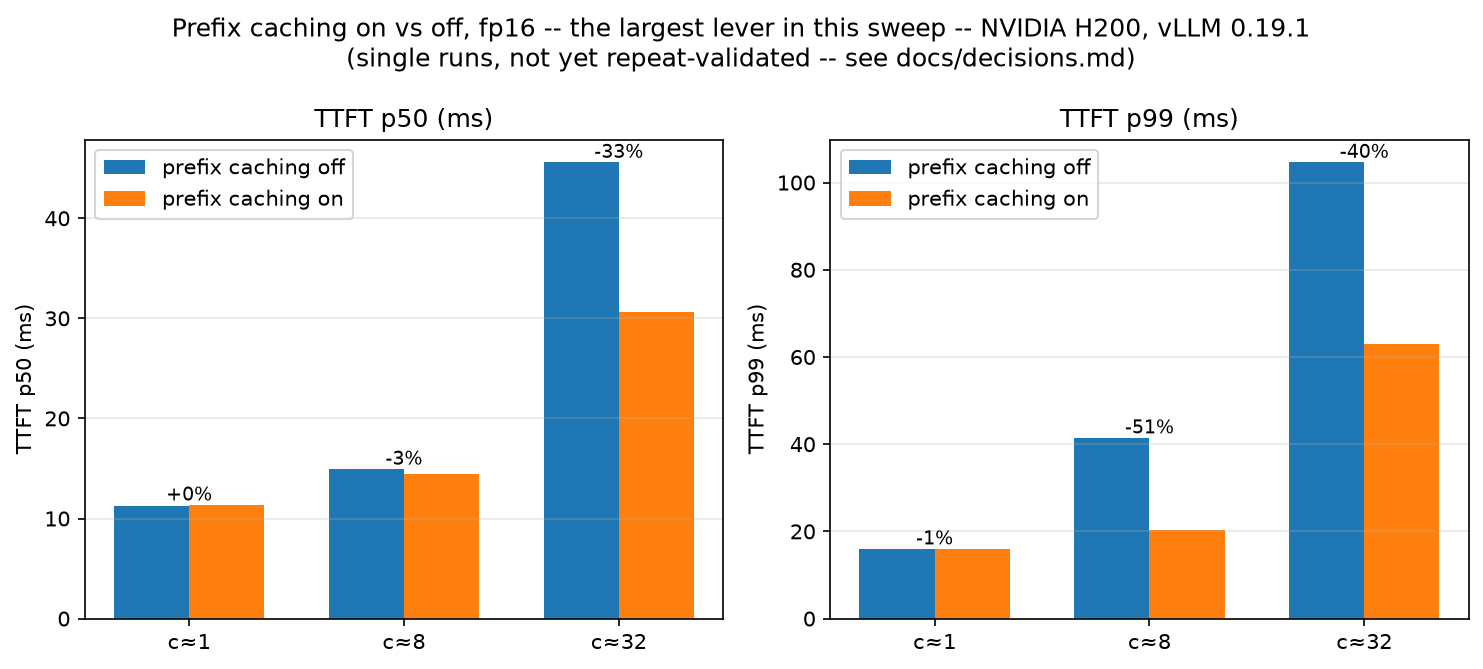
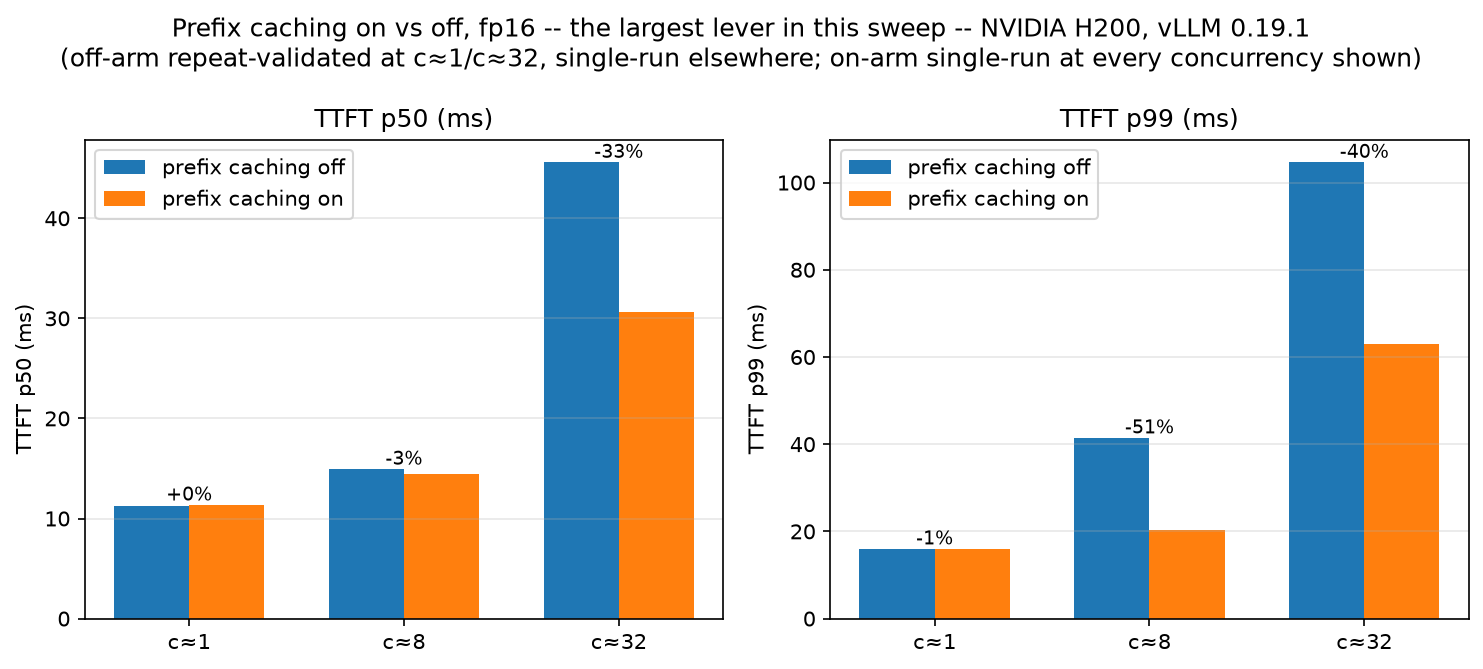
fix: state prefix-caching plot subtitles precisely, regenerate
Both prefix_caching_effect.png and effect_size_comparison.png
subtitles overstated "single-run, not yet repeat-validated" -- the
README's own repeat-validation paragraph says the prefix-caching-off
arm is repeat-validated at c1 and c32 (5 seeds); only the on arm (and
the off arm's c8 cell) is single-run. Read validation status off
cells[...]["runs"] instead of a hardcoded string, so this can't drift
out of sync with which cells actually got repeat runs again. Applies
to both the H100 and H200 versions of both plots -- same script, same
bug in both.

Changed region(s): [[0.031, 0.0598, 0.9616, 0.1196]]

diff --git a/scripts/analyze.py b/scripts/analyze.py
@@ -456,6 +456,31 @@ def plot_ttft_vs_arrival_rate(cells, out_path, env_label):
     plt.close(fig)
 
 
+def _validated_concs(cells, arm, prefix_caching, mode="open", barge_in=0.0):
+    """Concurrencies where this (arm, prefix_caching) cell is
+    repeat-validated (cell["runs"] > 1, from repeat_cell() -- 5 seeds),
+    read directly off the cells dict rather than hardcoded, so a plot
+    subtitle naming a validation status can't silently drift out of sync
+    with which concurrencies actually got repeat runs."""
+    return [c for c in CONC_ORDER
+            if (cells.get((arm, prefix_caching, mode, c, barge_in)) or {}).get("runs", 0) > 1]
+
+
+def _prefix_validation_note(cells):
+    off_repeat = _validated_concs(cells, "fp16", False)
+    on_repeat = _validated_concs(cells, "fp16", True)
+
+    def fmt(arm_label, repeat_concs):
+        if not repeat_concs:
+            return f"{arm_label} single-run at every concurrency shown"
+        if len(repeat_concs) == len(CONC_ORDER):
+            return f"{arm_label} repeat-validated at every concurrency shown"
+        concs = "/".join(f"c≈{c}" for c in repeat_concs)
+        return f"{arm_label} repeat-validated at {concs}, single-run elsewhere"
+
+    return f"{fmt('off-arm', off_repeat)}; {fmt('on-arm', on_repeat)}"
+
+
 def plot_prefix_caching_effect(cells, out_path, env_label):
     fig, axes = plt.subplots(1, 2, figsize=(10, 4.5))
     for ax, (label, key) in zip(axes, [("TTFT p50 (ms)", "ttft_p50_ms"), ("TTFT p99 (ms)", "ttft_p99_ms")]):
@@ -480,7 +505,7 @@ def plot_prefix_caching_effect(cells, out_path, env_label):
         ax.legend()
         ax.grid(alpha=0.3, axis="y")
     fig.suptitle(f"Prefix caching on vs off, fp16 -- the largest lever in this sweep -- {env_label}\n"
-                  "(single runs, not yet repeat-validated -- see docs/decisions.md)")
+                  f"({_prefix_validation_note(cells)})")
     fig.tight_layout()
     fig.savefig(out_path, dpi=150, bbox_inches="tight")
     plt.close(fig)
@@ -617,6 +642,23 @@ def plot_itl_abort_windows(results_dir, out_path, env_label):
     plt.close(fig)
 
 
+def _lever_validation_note(name, baseline, cell):
+    """Per-lever validation status read off cells[...]["runs"] for both
+    the fp16 baseline and the compared arm. A hardcoded "prefix caching
+    single-run" string here previously ignored that the fp16-off baseline
+    itself is repeat-validated at c≈32 -- only the fp16-on arm being
+    compared against it is single-run."""
+    baseline_repeat = baseline["runs"] > 1
+    cell_repeat = cell["runs"] > 1
+    if baseline_repeat and cell_repeat:
+        return f"{name} repeat-validated"
+    if not baseline_repeat and not cell_repeat:
+        return f"{name} single-run"
+    validated_side = "baseline" if baseline_repeat else "arm"
+    single_side = "arm" if baseline_repeat else "baseline"
+    return f"{name}: {validated_side} repeat-validated, {single_side} single-run"
+
+
 def plot_effect_size_comparison(cells, out_path, env_label):
     # The other plots each make one comparison in isolation (fp16 on vs
     # off; the arrival-rate curve). Neither puts prefix caching's effect
@@ -627,20 +669,19 @@ def plot_effect_size_comparison(cells, out_path, env_label):
     baseline = cells.get(("fp16", False, "open", 32, 0.0))
     if baseline is None:
         return  # nothing to compare against -- e.g. fp16 wasn't in this sweep
-    # (lever label, cell, validation status) -- status is reported per-lever
-    # in the subtitle below, built only from levers actually present in this
-    # sweep. A hardcoded "AWQ/FP8 repeat-validated" string previously stayed
-    # on the H200 version of this plot after FP8 was excluded (issue #29),
-    # naming a lever the chart no longer shows any data for.
+    # (lever label, cell, short name) -- short name feeds the validation
+    # status computed below, built only from levers actually present in
+    # this sweep. A hardcoded "AWQ/FP8 repeat-validated" string previously
+    # stayed on the H200 version of this plot after FP8 was excluded
+    # (issue #29), naming a lever the chart no longer shows any data for.
     levers = [
-        ("prefix caching\n(fp16 on vs off)", cells.get(("fp16", True, "open", 32, 0.0)),
-         "prefix caching single-run"),
-        ("AWQ\n(vs fp16)", cells.get(("awq", False, "open", 32, 0.0)), "AWQ repeat-validated"),
-        ("FP8\n(vs fp16)", cells.get(("fp8", False, "open", 32, 0.0)), "FP8 repeat-validated"),
+        ("prefix caching\n(fp16 on vs off)", cells.get(("fp16", True, "open", 32, 0.0)), "prefix caching"),
+        ("AWQ\n(vs fp16)", cells.get(("awq", False, "open", 32, 0.0)), "AWQ"),
+        ("FP8\n(vs fp16)", cells.get(("fp8", False, "open", 32, 0.0)), "FP8"),
     ]
     fig, ax = plt.subplots(figsize=(7, 5))
     labels = [l for l, c, s in levers if c]
-    status_notes = [s for l, c, s in levers if c]
+    status_notes = [_lever_validation_note(s, baseline, c) for l, c, s in levers if c]
     p50_deltas = [(c["ttft_p50_ms"][0] - baseline["ttft_p50_ms"][0]) / baseline["ttft_p50_ms"][0] * 100
                   for l, c, s in levers if c]
     p99_deltas = [(c["ttft_p99_ms"][0] - baseline["ttft_p99_ms"][0]) / baseline["ttft_p99_ms"][0] * 100
